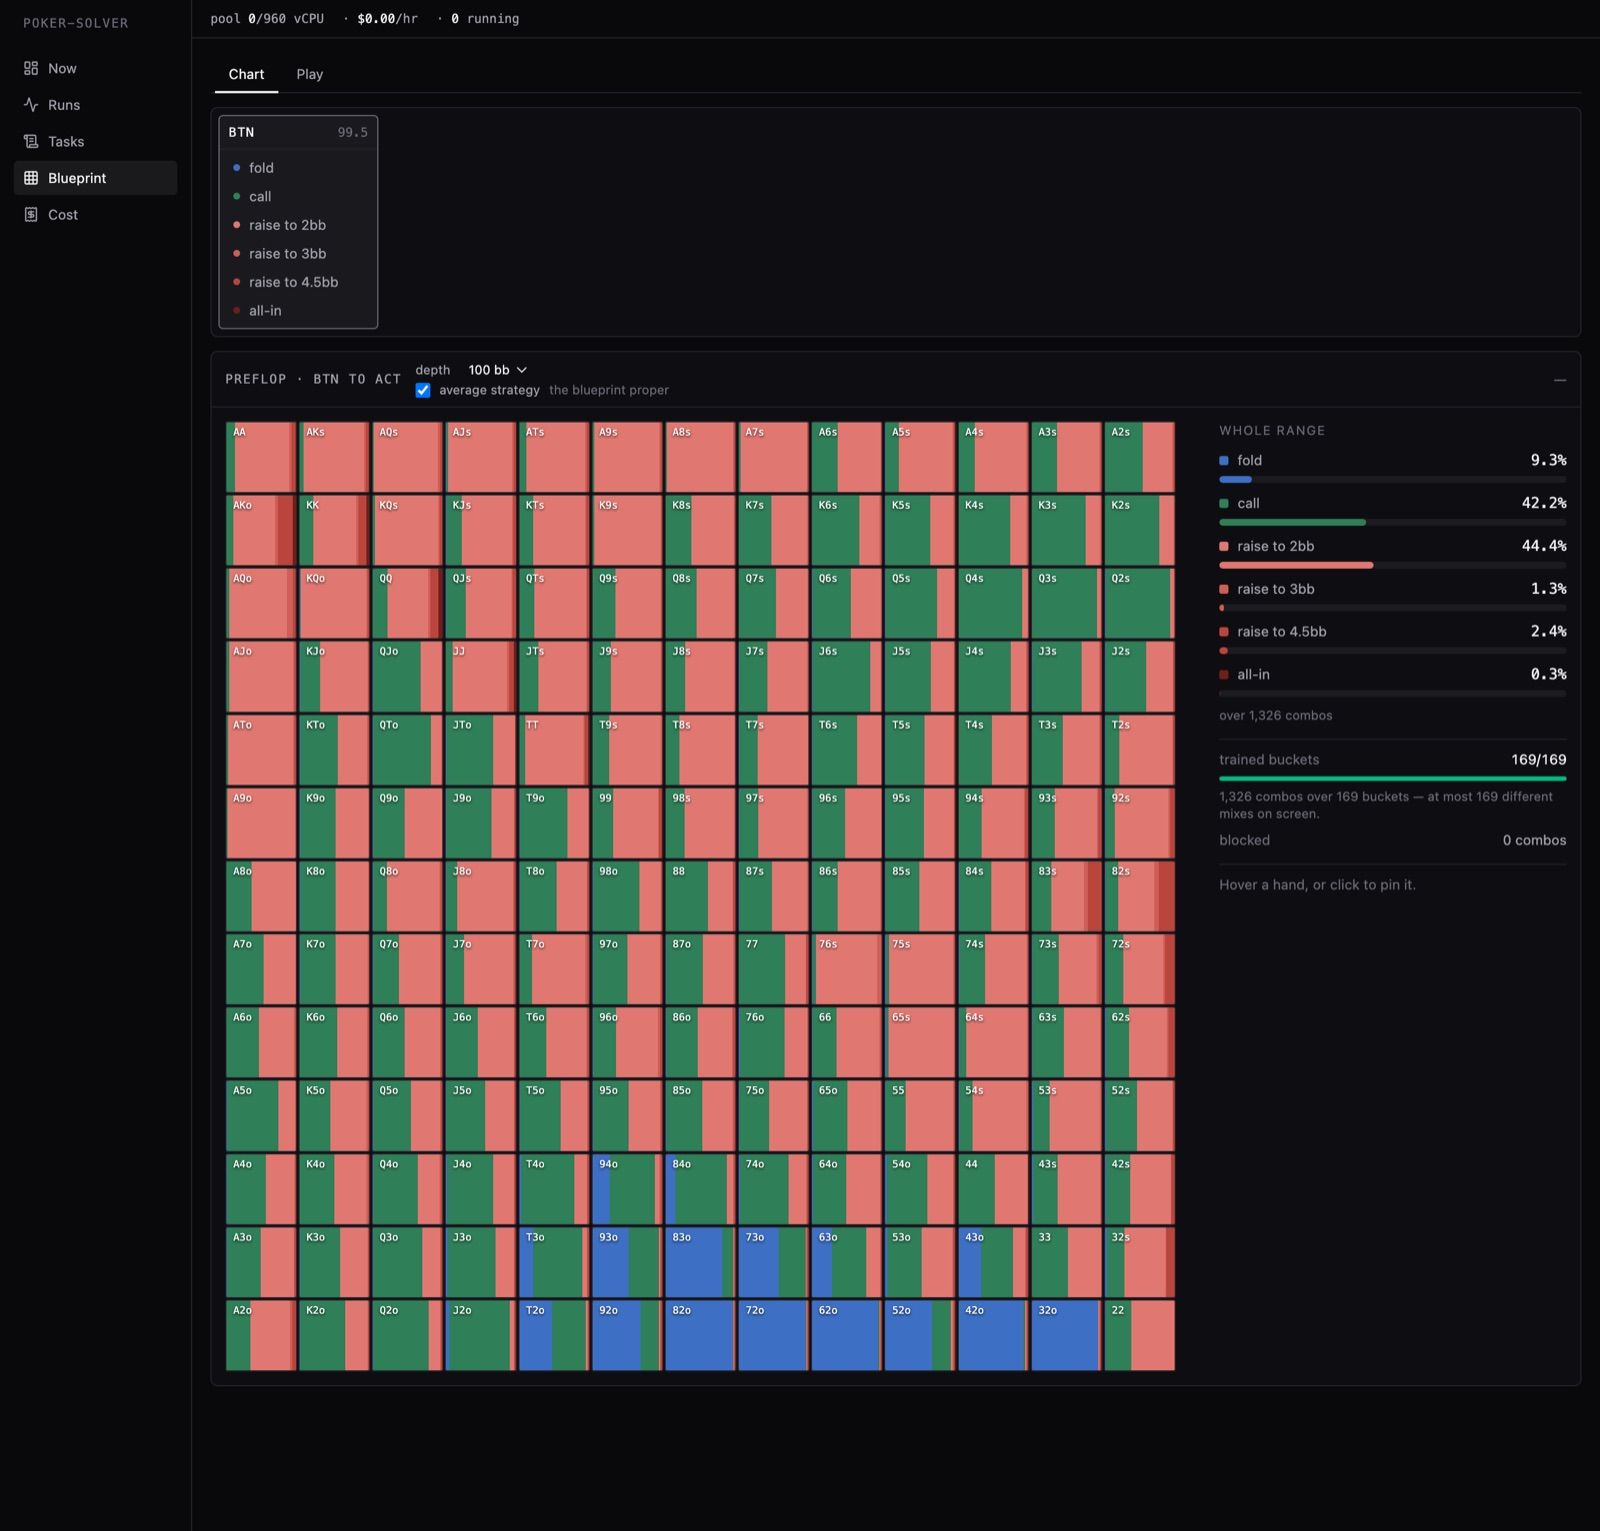
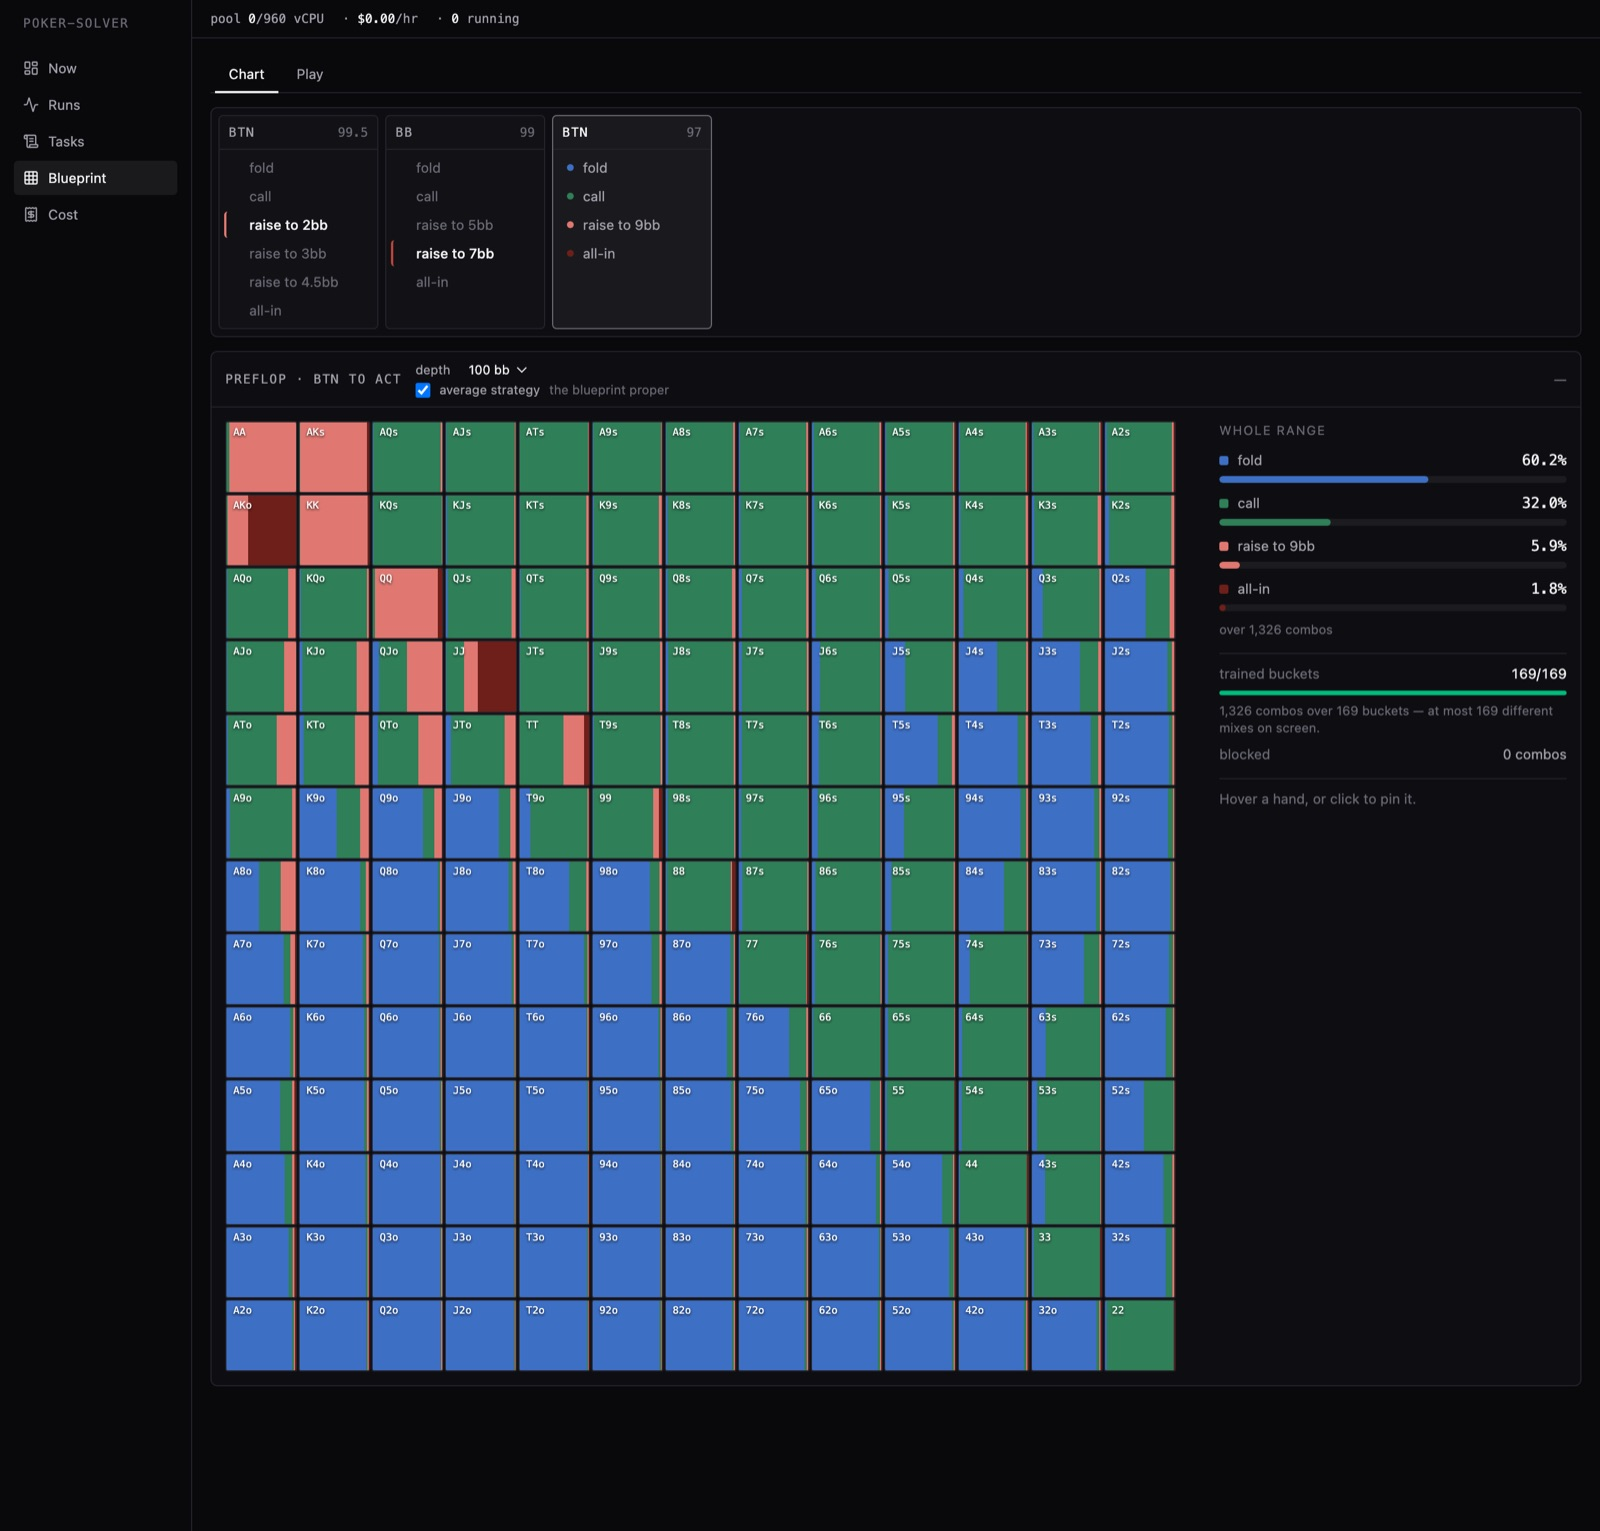
docs: README chart shows the button facing a 3-bet; drop the play-page blurb

diff --git a/README.md b/README.md
@@ -17,9 +17,7 @@ on an autoscaling Azure Batch pool. It plays live.**
   <img src="docs/img/play.jpg" alt="The public play page: you against Blueprint on a 9♣ J♣ 8♠ flop" width="860">
 </a>
 
-<sub>**[Play it in your browser →](https://poker-blueprint.swedencentral.cloudapp.azure.com/)**
-No sign-up. 100 bb stacks, the button alternates, and stacks reset every hand.
-Keys: <kbd>F</kbd> fold · <kbd>C</kbd> check/call · <kbd>R</kbd> bet/raise · <kbd>←</kbd><kbd>→</kbd> size · <kbd>Space</kbd> deal.</sub>
+**[Play it in your browser →](https://poker-blueprint.swedencentral.cloudapp.azure.com/)**
 
 </div>
 
@@ -68,9 +66,9 @@ flowchart LR
 
 ## The console
 
-<img src="docs/img/console-blueprint.jpg" alt="Console Blueprint page: the 100 bb button's preflop strategy as a 13x13 hand grid">
+<img src="docs/img/console-blueprint.jpg" alt="Console Blueprint page: the button's response to a 3-bet at 100 bb, as a 13x13 hand grid">
 
-<sub><b>Blueprint</b>: the button's preflop strategy at 100 bb. Each cell is one starting hand, split into fold, call and raise in proportion to how often the blueprint plays each.</sub>
+<sub><b>Blueprint</b>: the button opens to 2bb, the big blind 3-bets to 7bb, and the grid shows how the button answers with each starting hand: fold, call, 4-bet or all-in.</sub>
 
 <table>
 <tr>
